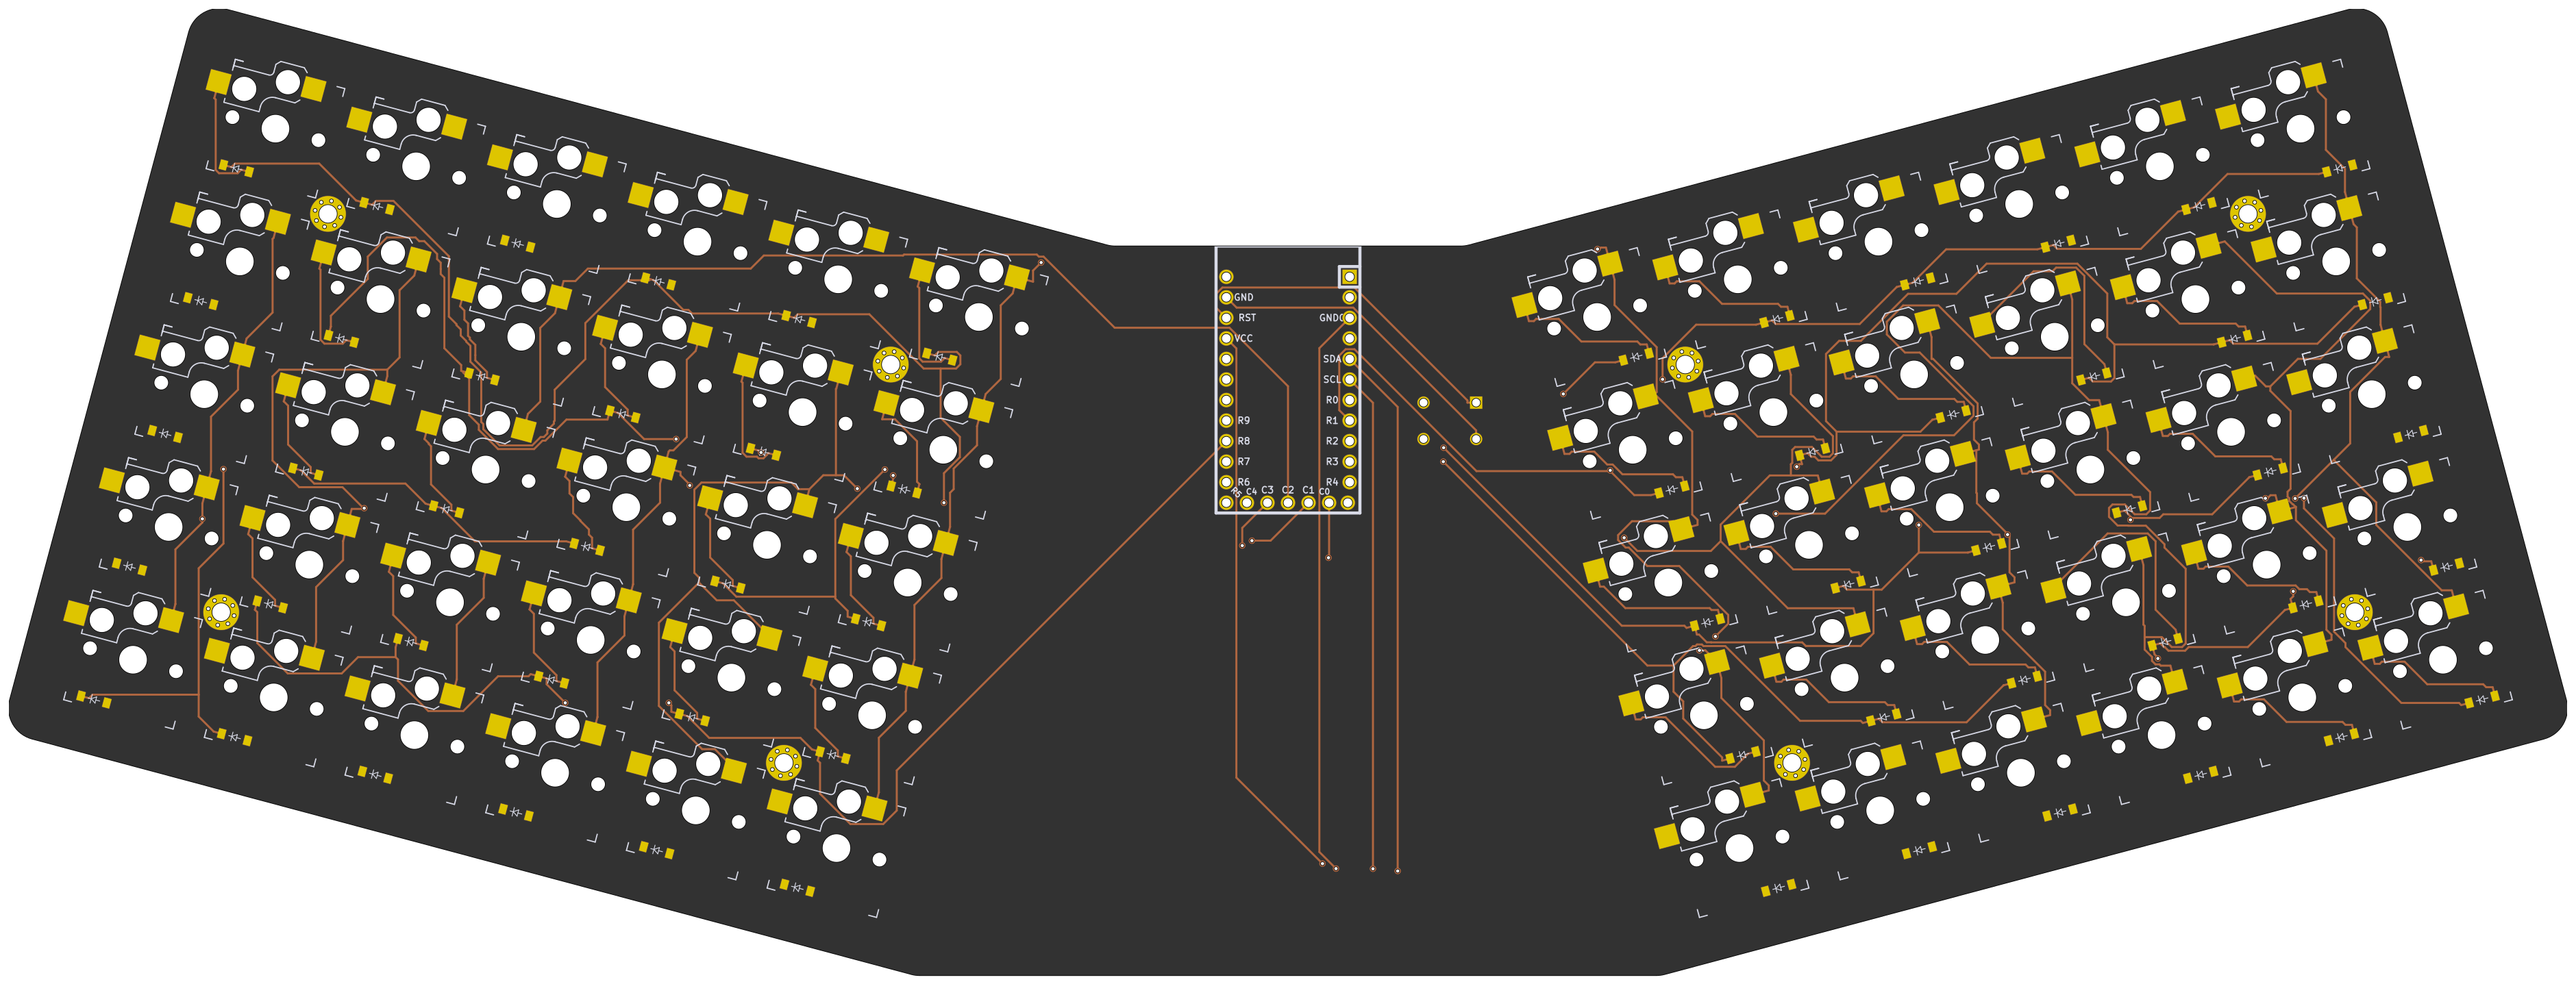
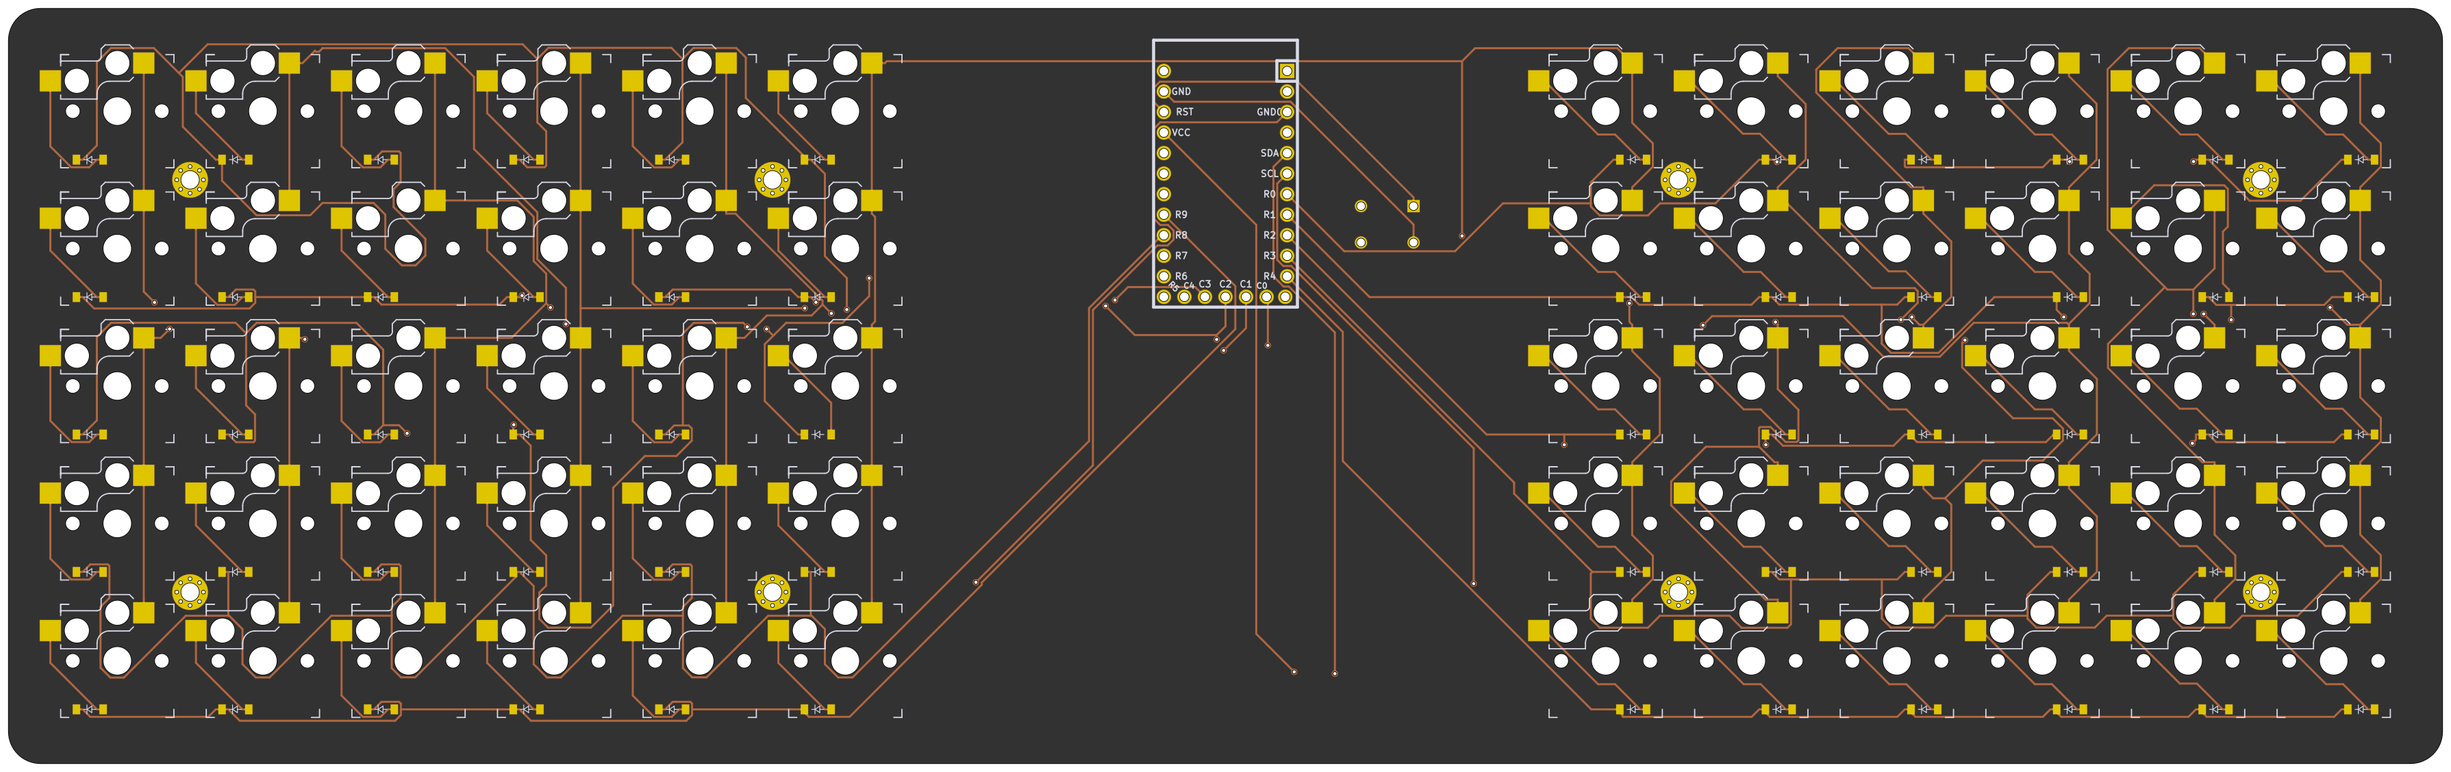
Changes trackpad outline to be corner marks instead of a square outline

diff --git a/input/footprints/azoteq_trackpad.js b/input/footprints/azoteq_trackpad.js
@@ -25,10 +25,10 @@ module.exports = {
             (fp_text reference "${p.ref}" (at 0 0) (layer ${p.side}.SilkS) ${p.ref_hide} (effects (font (size 1.27 1.27) (thickness 0.15))))
 
             ${''/* corner marks */}
-            (fp_line (start -32.5 -24.5) (end -32.5 24.5) (layer F.SilkS) (width 0.15))
-            (fp_line (start -32.5 24.5) (end 32.5 24.5) (layer F.SilkS) (width 0.15))
-            (fp_line (start 32.5 24.5) (end 32.5 -24.5) (layer F.SilkS) (width 0.15))
-            (fp_line (start 32.5 -24.5) (end -32.5 -24.5) (layer F.SilkS) (width 0.15))
+            (fp_arc (start -29.5 21.5) (end -29.5 24.5) (angle 90) (layer F.SilkS) (width 0.15)) ${'' /*bottom left*/}
+            (fp_arc (start 29.5 21.5) (end 32.5 21.5) (angle 90) (layer F.SilkS) (width 0.15)) ${'' /*bottom right*/}
+            (fp_arc (start 29.5 -21.5) (end 29.5 -24.5) (angle 90) (layer F.SilkS) (width 0.15)) ${'' /*top right*/}
+            (fp_arc (start -29.5 -21.5) (end -32.5 -21.5) (angle 90) (layer F.SilkS) (width 0.15)) ${'' /*top left*/}
             
             ${''/* pads */}
             (fp_text user "${p.SDA.name}" (at -12.5 14.5 ${p.rot+90}) (layer ${p.side}.SilkS) (effects (font (size 0.6 0.6) (thickness 0.15))))
